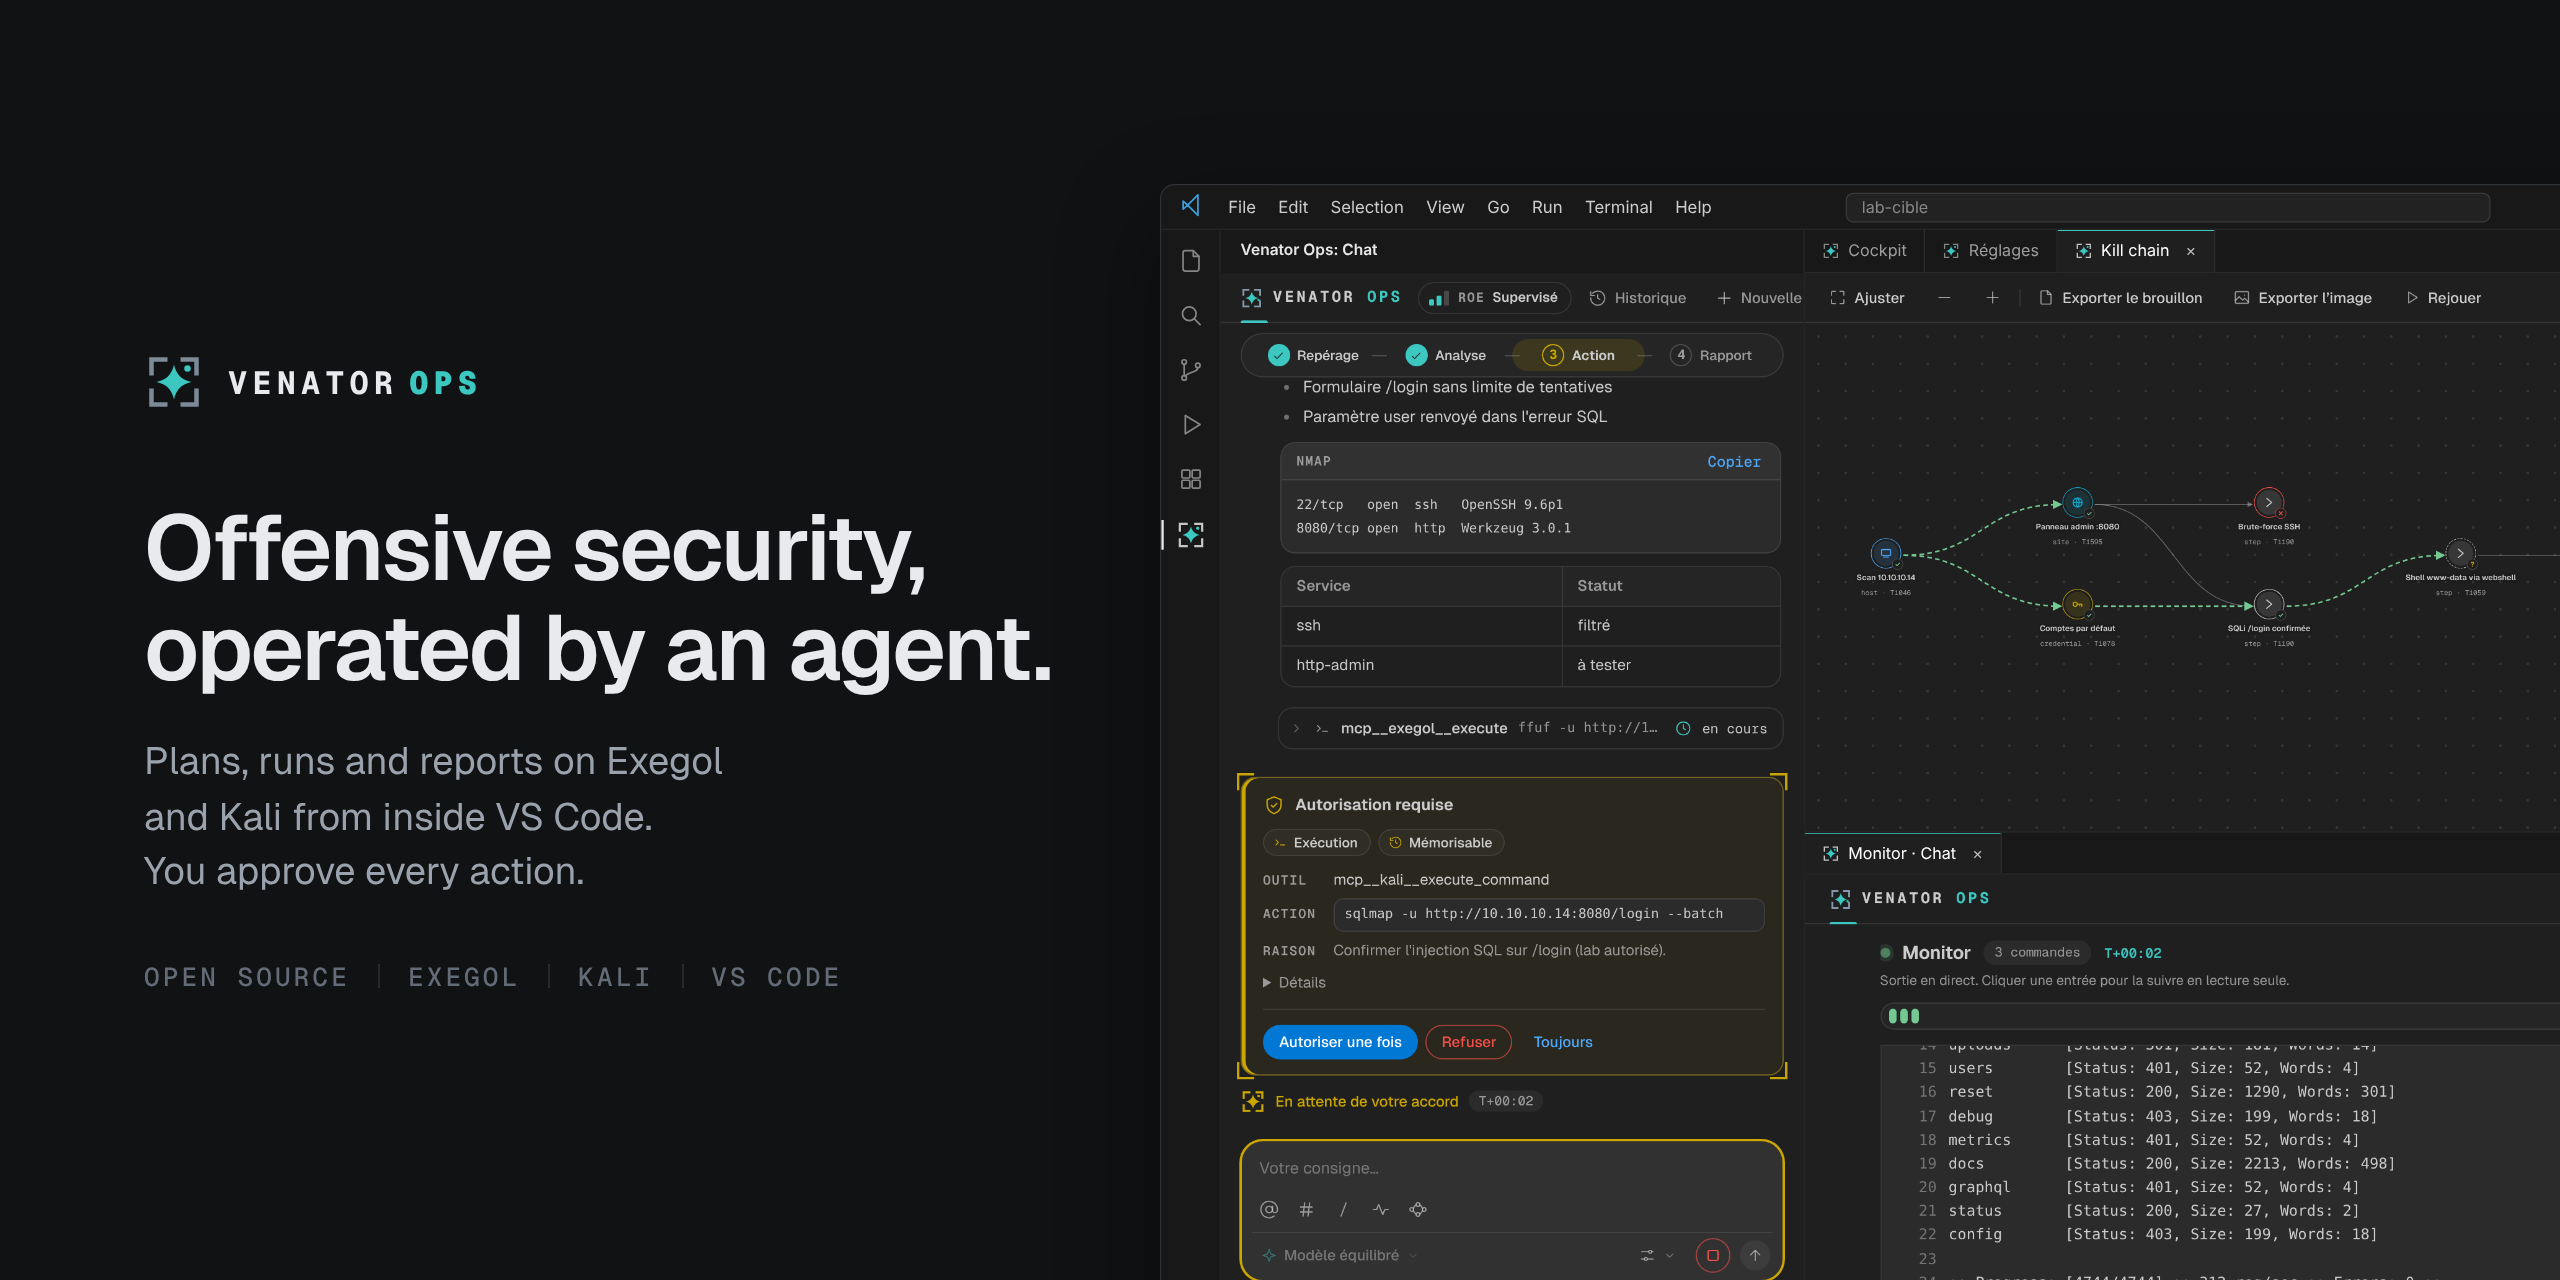
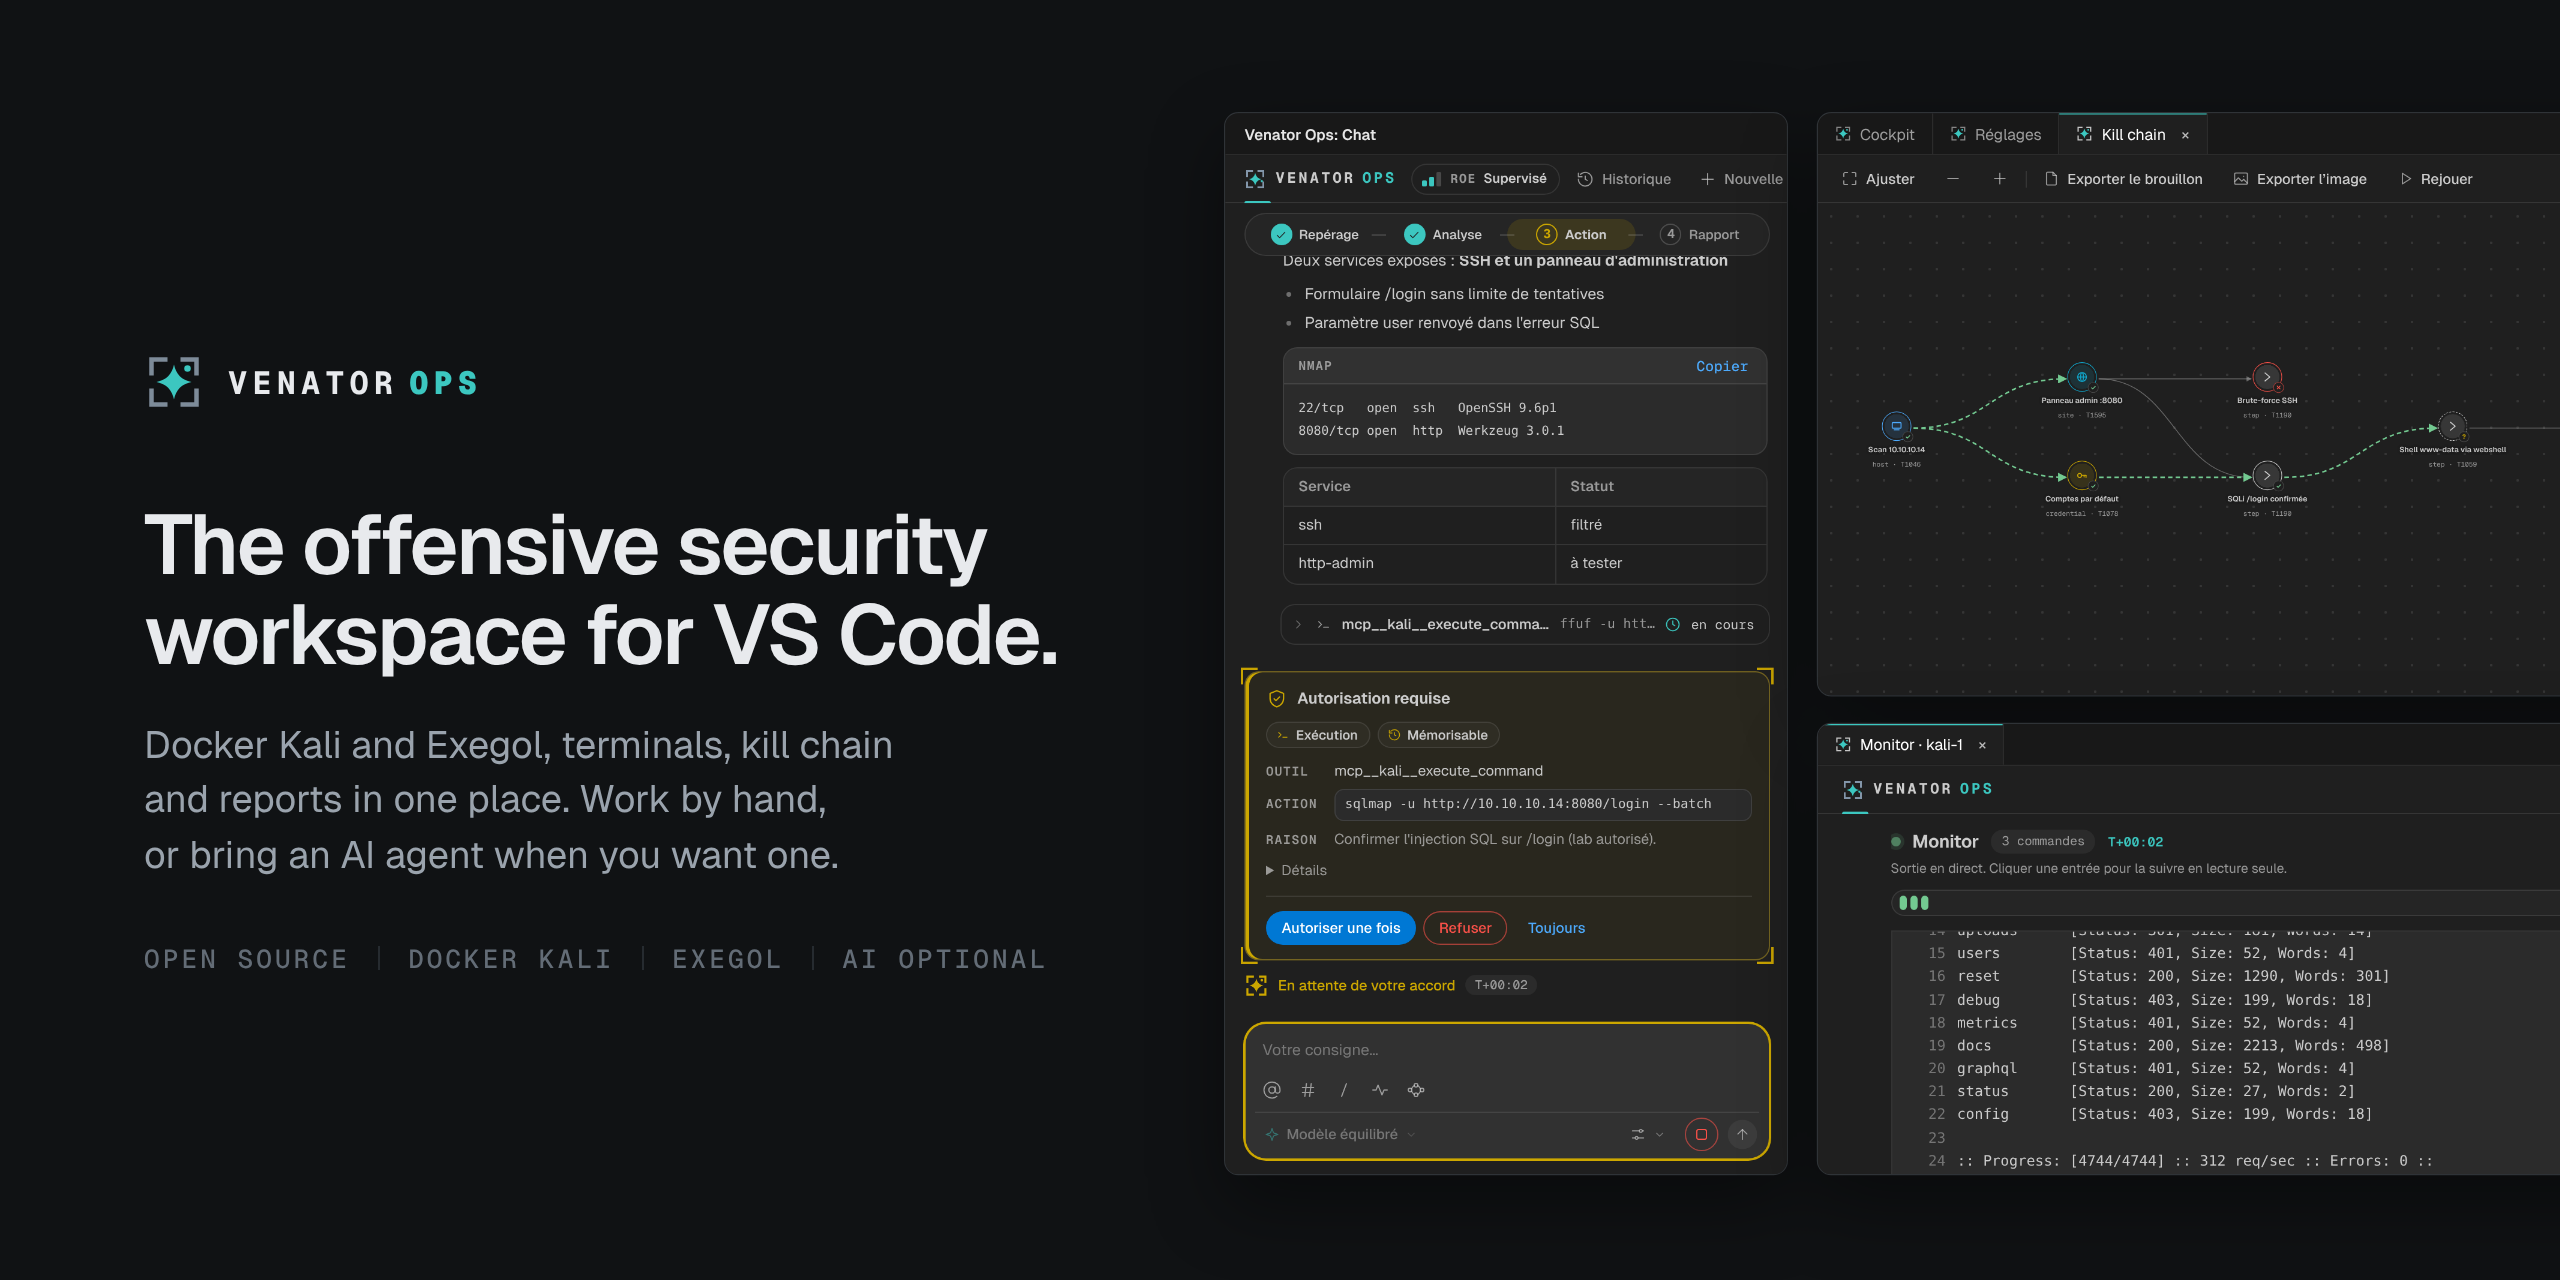
Bannières Venator Ops : positionnement « espace de travail »
- Titre « The offensive security workspace for VS Code. » ; texte et faits
  qui présentent l’outil comme un espace de travail utilisable sans IA,
  l’agent restant une option (« AI optional »).
- Docker Kali cité en premier, puis Exegol.
- Trois fenêtres séparées : chat à gauche, Kill chain en haut à droite,
  Monitor (kali-1) en bas à droite.
- README et DESIGN.md alignés sur ce positionnement.

Captures tirées de l’aperçu, textes remplacés à la capture par un lab
fictif ; fixtures inchangées. npm run check : 8 tests passés.

Claude-Session: https://claude.ai/code/session_01F7H1XGZHyAFoG5LN1doGUs

diff --git a/DESIGN.md b/DESIGN.md
@@ -53,8 +53,10 @@ d’activité, monochrome) en sont les versions fixes.
 
 Nom retenu : **Venator Ops** (*venator*, « le chasseur » en latin ; aussi un
 genre d’araignées-loups et un clin d’œil aux destroyers de Star Wars). Slogan :
-*Agentic AI for offensive security* — un cerveau IA, des environnements Exegol
-et Kali sur le terrain, dans VS Code. Le nom visible change ; les identifiants
+*The offensive security workspace for VS Code*. C’est d’abord un espace de
+travail : conteneurs Docker Kali puis Exegol (dans cet ordre), terminaux,
+Monitor, kill chain et rapports, utilisables entièrement sans IA ; l’agent est
+une option. Ne pas le présenter comme un agent autonome de plus. Le nom visible change ; les identifiants
 internes (`warbandDesign.*`, commandes, réglages, classes, globales
 `WarbandUI` / `WarbandIcons`) restent pour ne casser ni les réglages
 existants ni la réintégration.
@@ -64,10 +66,12 @@ Le logo reste celui de l’interface (`media/logo.svg`) ; le mot-symbole
 `media/brand/` : `banner-github.png` (1280 × 640, aperçu social du dépôt),
 `banner-github@2x.png` (README) et `banner-linkedin.png` (1584 × 396 en 2x,
 texte décalé hors de la photo de profil). Registre sobre : fond plat, aucune
-lueur ni dégradé ; titre « Offensive security, operated by an agent. » à
-gauche, capture produit à droite dans une fenêtre VS Code (chat avec carte
-d’autorisation, Kill chain, Monitor). La capture vient de l’aperçu de
-l’atelier ; ses textes sont remplacés au moment de la capture par un lab
+lueur ni dégradé ; titre « The offensive security workspace for VS Code. »,
+texte « Docker Kali and Exegol… Work by hand, or bring an AI agent when you
+want one. », faits « Open source · Docker Kali · Exegol · AI optional ». À
+droite, trois fenêtres séparées : chat à gauche, Kill chain en haut à droite,
+Monitor (kali-1) en bas à droite. Les captures viennent de l’aperçu de
+l’atelier ; leurs textes sont remplacés au moment de la capture par un lab
 fictif (10.10.10.14, nmap, whatweb, ffuf, sqlmap), sans toucher aux fixtures.
 Aucune donnée réelle (IP, flags, identifiants) n’y figure.
 

diff --git a/README.md b/README.md
@@ -1,9 +1,10 @@
-![Venator Ops — Agentic AI for offensive security](media/brand/banner-github@2x.png)
+![Venator Ops — The offensive security workspace for VS Code](media/brand/banner-github@2x.png)
 
 # Venator Ops — atelier de design VS Code
 
-*Agentic AI for offensive security* : un cerveau IA, des environnements Exegol
-et Kali sur le terrain, directement dans VS Code.
+*The offensive security workspace for VS Code* : conteneurs Docker Kali et
+Exegol, terminaux, Monitor, kill chain et rapports au même endroit. On peut tout
+faire à la main ; l’agent IA est une option, pas un passage obligé.
 
 Prototype autonome pour travailler la présentation : conversation, Monitor,
 graphe interactif et réglages. Les projets, modèles, messages et activités sont
